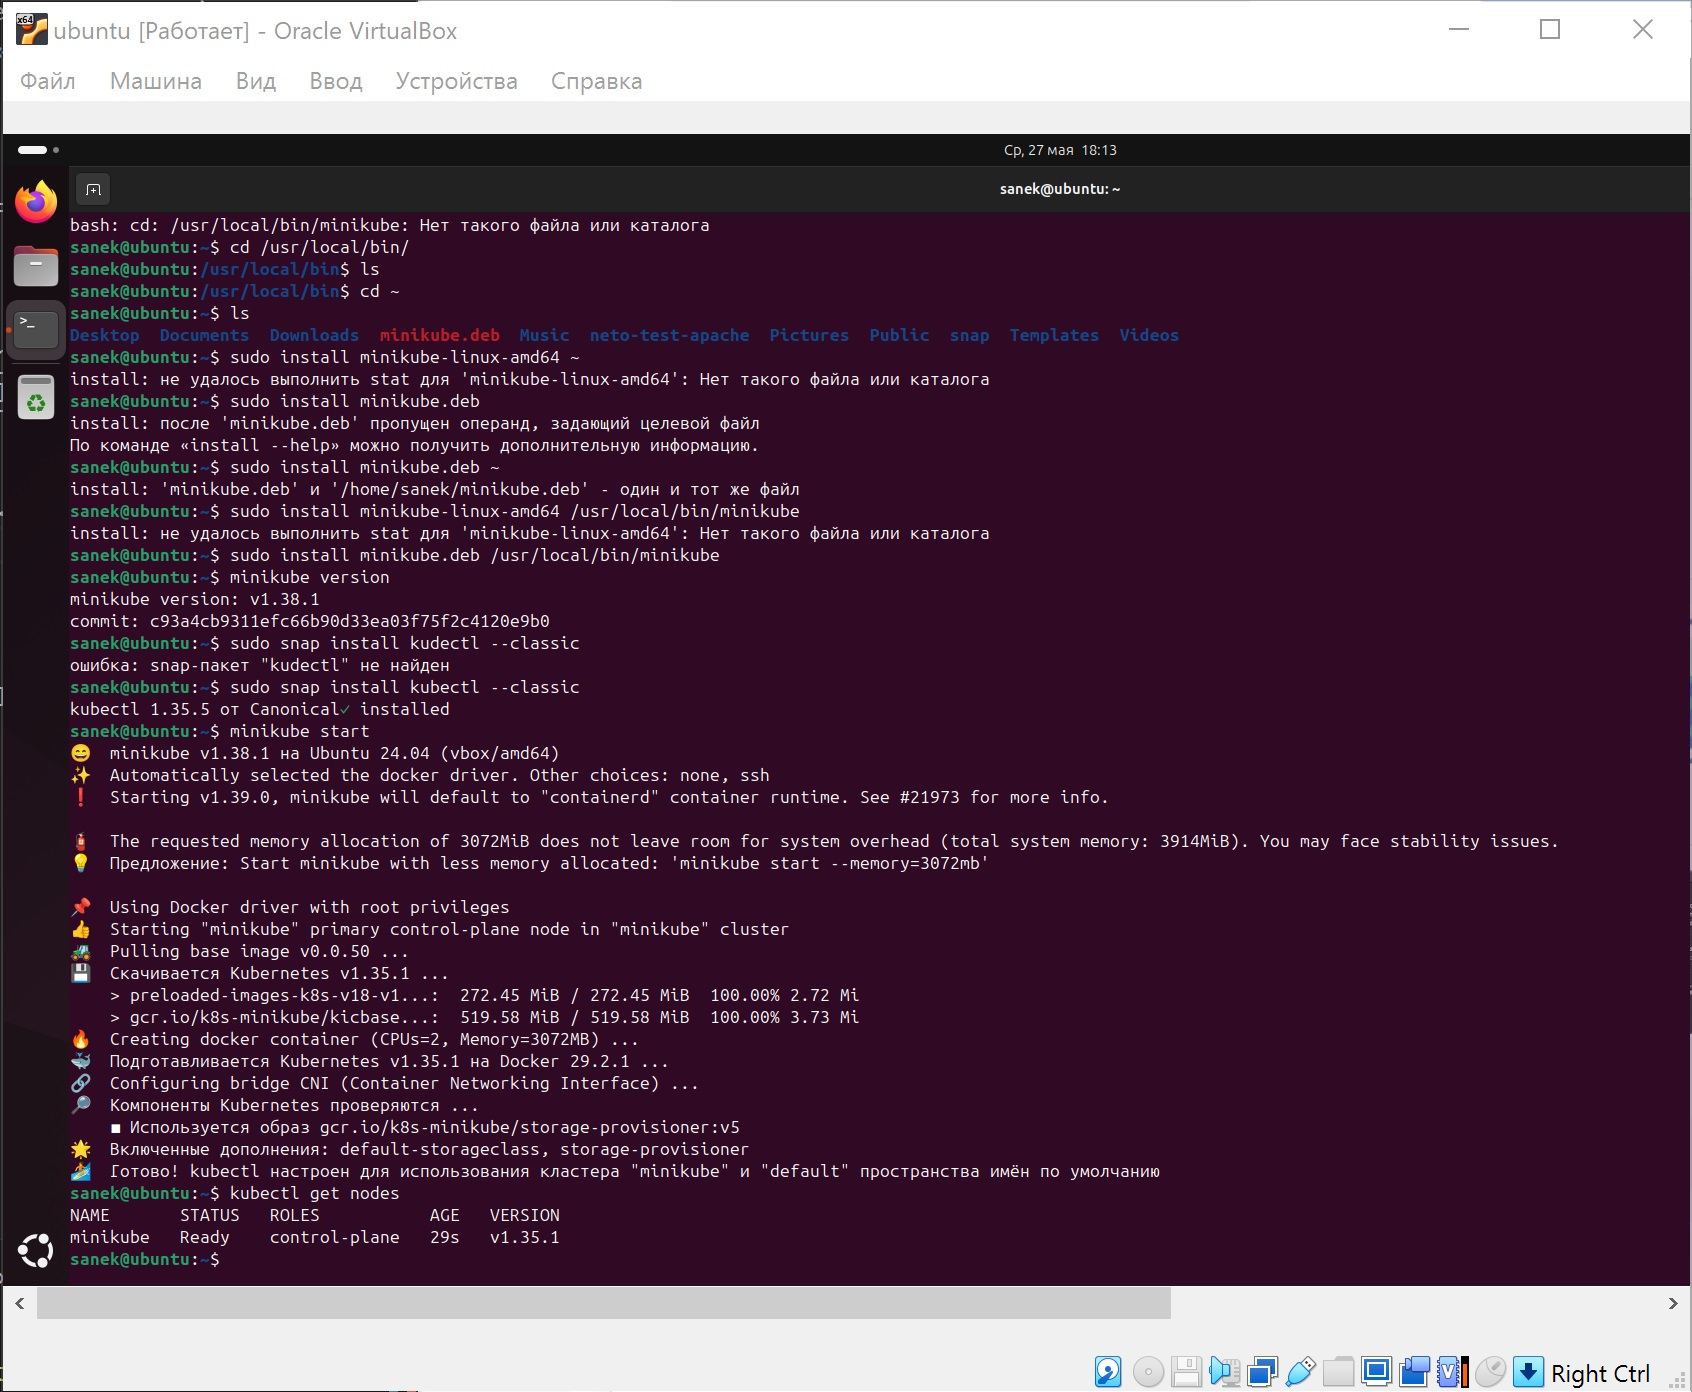
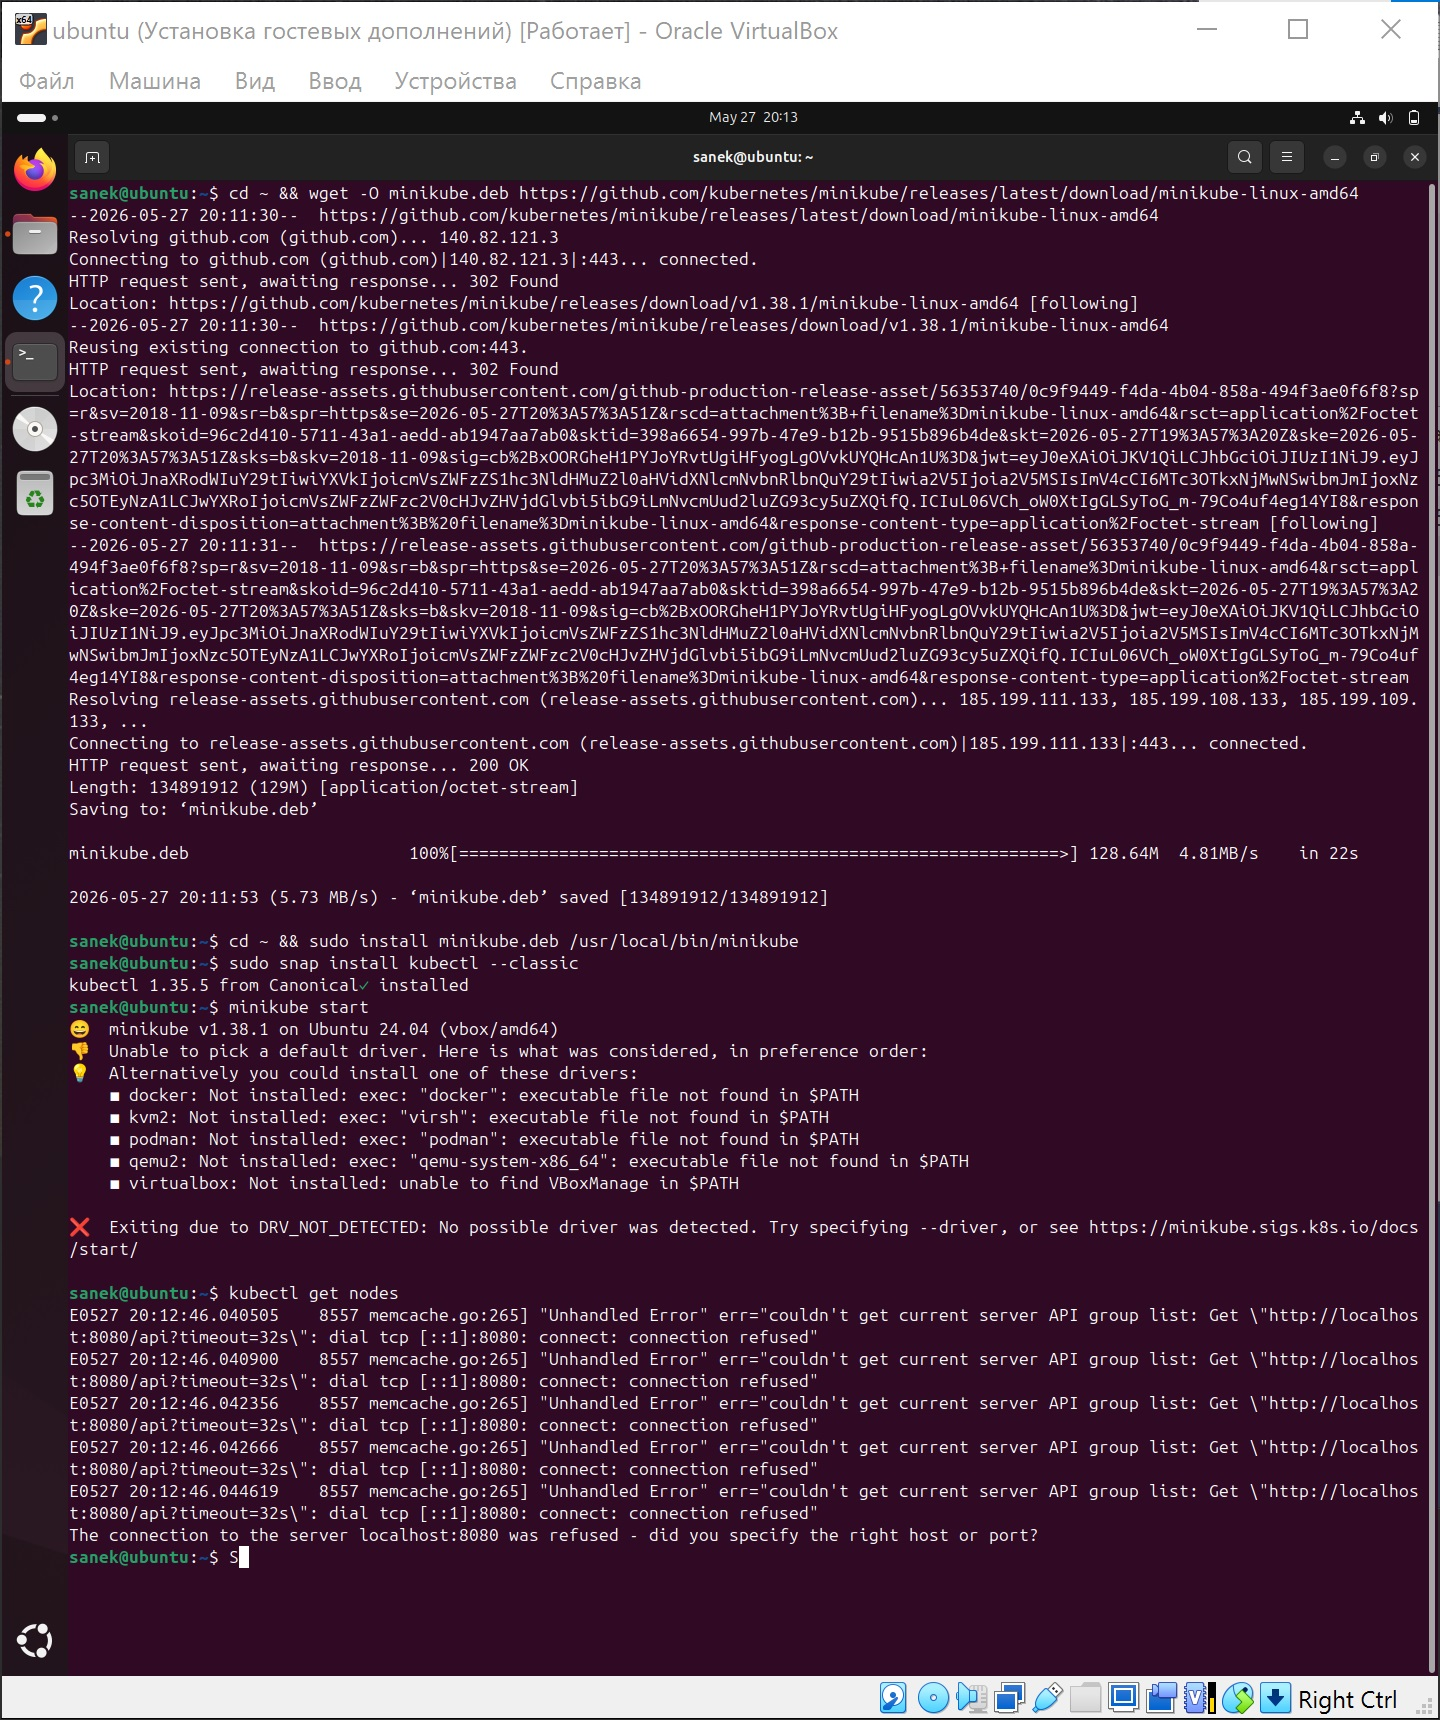
Добавлено решение Задачи 2 к ДЗ 5

diff --git a/Svirt/hw_5.md b/Svirt/hw_5.md
@@ -52,3 +52,56 @@ minikube start --driver=docker --addons=ingress,dashboard
 kubectl get pods -n kube-system
 
 ![Скрин 2](./hw5-1_2.jpg)
+
+## Задача 2
+
+1. Измените [файл](redis-app-base.yaml) с учётом условий:
+
+* redis должен запускаться без пароля;
+* создайте Service, который будет направлять трафик на этот Deployment;
+* версия образа redis должна быть зафиксирована на 6.0.13.
+
+[Измененный файл](redis-app.yaml)
+
+2. Запустите Deployment в своём кластере и добейтесь его стабильной работы.
+
+* Локальное скачивание образа через Docker
+
+docker pull redis:6.0.13
+
+* Перенос образа внутрь Minikube
+
+minikube image load redis:6.0.13
+
+* Запуск деплоймента
+
+kubectl apply -f redis-app.yaml
+
+В консоль должно вывестись:
+
+deployment.apps/redis created
+service/redis-service created
+
+![Скрин 3](./hw5-1_3.jpg)
+
+* Контроль стабильности и проверка работы
+
+kubectl get pods -l app=redis -w
+
+Дождитесь, пока статус изменится на Running, а в столбце READY появится 1/1. Чтобы выйти из режима мониторинга, нажмите Ctrl + C.
+
+![Скрин 4](./hw5-1_4.jpg)
+
+Убедитесь, что служба создана и имеет внутренний IP-адрес.
+
+kubectl get svc redis-service
+
+![Скрин 5](./hw5-1_5.jpg)
+
+* Проверка логов контейнера (для подтверждения беспарольного режима)
+
+kubectl logs deployment/redis
+
+В логах вы увидите приветственное сообщение Redis и строку, подтверждающую готовность принимать соединения на порту 6379.
+
+![Скрин 6](./hw5-1_6.jpg)
